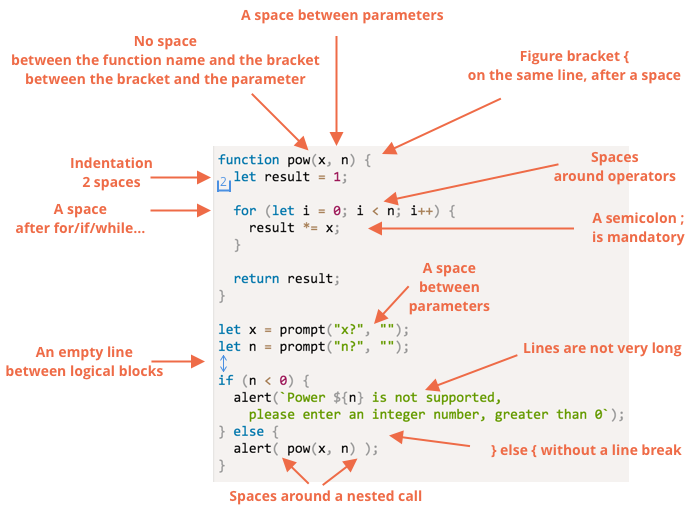
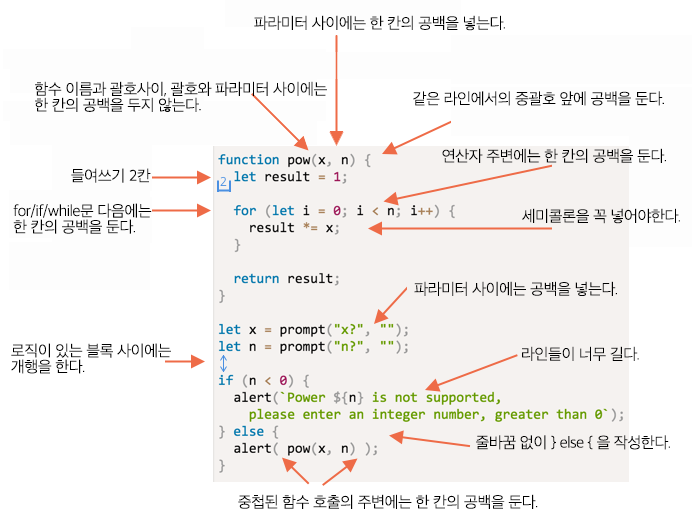
UPDATE 코드 스타일 번역

diff --git a/1-js/03-code-quality/02-coding-style/article.md b/1-js/03-code-quality/02-coding-style/article.md
@@ -1,12 +1,12 @@
-# Coding Style
+# 코딩 스타일
 
-Our code must be as clean and easy to read as possible.
+코드는 깨끗하고 읽기 쉽게 작성하는 것이 실질적으로 프로그래밍의 기술입니다.
 
-That is actually the art of programming -- to take a complex task and code it in a way that is both correct and human-readable.
+복잡한 작업을 수행하고 사람이 읽을 수 있는 방식으로 코드를 작성합니다.
 
-## Syntax
+## 문법
 
-Here is a cheatsheet with some suggested rules (see below for more details):
+다음은 몇 가지 규칙이 제안된 요약한 치트시트입니다. (아래에 자세한 내용 참조)
 
 ![](code-style.png)
 <!--
@@ -34,15 +34,17 @@ if (n < 0) {
 
 -->
 
-Now let's discuss the rules and reasons for them in detail.
+위의 치트 시트에 기재된 규칙과 세세한 내용을 설명하겠습니다.
 
 ```warn header="Irony Detected"
-Nothing is set in stone here. These are style preferences, not religious dogmas.
+꼭 해야만 하는 정해진 규칙이 아닙니다.
 ```
 
-### Curly Braces
+### 중괄호
 
-In most JavaScript projects curly braces are written in "Egyptian" style with the opening brace on the same line as the corresponding keyword -- not on a new line. There should also be a space before the opening bracket, like this:
+대부분의 자바스크립트 프로젝트에서 중괄호는 "Egyptian" 스타일입니다. "Egyptian" 스타일은 새로운 키워드가 아닌 해당 키워드와 같은 행에 여는 중괄호로 작성되는 것입니다. 아래의 예시 코드에서 처럼 여는 중괄호 앞에는 공백 한 칸이 있어야 합니다.
+
+예시 :
 
 ```js
 if (condition) {
@@ -52,10 +54,9 @@ if (condition) {
 }
 ```
 
-A single-line construct is an important edge case. Should we use brackets at all? If yes, then where?
+단일 행 구조는 에지 케이스에서 중요합니다. 그렇다면 대괄호를 사용해야할까요? 그렇다면 어디에 대괄호를 사용할까요?
 
-Here are the annotated variants so you can judge their readability for yourself:
-
+다음은 주석이 달린 코드 입니다. 코드를 보면 가독성을 판단할 수 있습니다.
 <!--
 ```js no-beautify
 if (n < 0) {alert(`Power ${n} is not supported`);}
@@ -72,31 +73,31 @@ if (n < 0) {
 -->
 ![](figure-bracket-style.png)
 
-In summary:
-- For very short code, one line is acceptable. For example: `if (cond) return null`.
-- But a separate line for each statement in brackets is usually easier to read.
+요약 :
 
-### Line Length
+- 짧은 코드 작성을 위해서 한 행은 허용합니다. ex) `if (cond) return null`.
+- 그러나 작성한 구문을 중괄호를 사용하여 행을 구분한 코드는 읽기 쉽습니다.
 
-No one likes to read a long horizontal line of code. It's best practice to split them up and limit the length of your lines.
+### 행 길이
 
-The maximum line length should be agreed upon at the team-level. It's usually 80 or 120 characters.
+가로로 긴 행의 코드를 읽는 것은 힘듭니다. 행을 분리하고 행의 길이를 제한하는 것이 가장 좋습니다.
 
-### Indents
+최대 행의 길이는 팀 내에서 합의 해야 합니다. 일반적으로 80에서 120자입니다.
 
-There are two types of indents:
+### 들여쓰기
 
-- **Horizontal indents: 2 or 4 spaces.**
+2가지 타입의 들여쓰기가 있습니다.
 
-    A horizontal indentation is made using either 2 or 4 spaces or the "Tab" symbol. Which one to choose is an old holy war. Spaces are more common nowadays.
+- **가로 들여쓰기 : 2칸 또는 4칸의 공백**
+    가로 들여쓰기는 2칸 또는 4칸의 공백을 사용하거나 "Tab"으로 적용합니다. 2칸 또는 4칸의 공백을 사용할지 "Tab"을 적용할지에 대한 논쟁은 오랫동안 이뤄져 왔습니다. 요즘은 공백을 좀 더 많이 사용하고 있습니다.
 
-    One advantage of spaces over tabs is that spaces allow more flexible configurations of indents than the "Tab" symbol.
+    공백이 "Tab"보다 유연한 구성을 허용한다는 한 가지 장점이 있습니다.
 
-    For instance, we can align the arguments with the opening bracket, like this:
+    예를 들어, 중괄호를 열 때 아래의 예시 코드처럼 인자를 정렬할 수 있습니다.
 
     ```js no-beautify
     show(parameters,
-         aligned, // 5 spaces padding at the left  
+         aligned, // 왼쪽에서 5칸 공백
          one,
          after,
          another
@@ -105,9 +106,10 @@ There are two types of indents:
     }
     ```
 
-- **Vertical indents: empty lines for splitting code into logical blocks.**
+- **세로 들여쓰기 : 로직이 있는 블록 사이를 나눌 때 빈 행**
 
-    Even a single function can often be divided into logical blocks. In the example below, the initialization of variables, the main loop and returning the result are split vertically:
+    단일 함수에서 자주 로직 블록으로 나눌 수 있습니다.
+    아래의 예시 코드에서 변수의 초기화, 메인 반복문 그리고 결과를 반환하는 부분에서 세로로 구분할 수 있습니다.
 
     ```js
     function pow(x, n) {
@@ -120,24 +122,23 @@ There are two types of indents:
       return result;
     }
     ```
+    새로운 행을 추가하면 읽기 쉬운 코드를 작성할 수 있습니다. 세로로 들여쓰기가 없는 코드는 9줄을 초과해서는 안됩니다.
 
-    Insert an extra newline where it helps to make the code more readable. There should not be more than nine lines of code without a vertical indentation.
+### 세미콜론
 
-### Semicolons
+세미콜론은 구문을 건너띌 수 있는 경우에도 각각 구문 다음에 있어야 합니다.
 
-A semicolon should be present after each statement, even if it could possibly be skipped.
+세미콜론이 실제로 선택사항이고, 거의 사용하지 않는 언어도 있습니다. 자바스크립트에서는 줄 바꿈이 세미콜론으로 해석되지 않아 오류에 취약한 경우가 있습니다.
 
-There are languages where a semicolon is truly optional and it is rarely used. In JavaScript, though, there are cases where a line break is not interpreted as a semicolon, leaving the code vulnerable to errors.
+프로그래머로서 더욱 성장하게 되면 [StandardJS](https://standardjs.com/)처럼 세미콜론을 작성하지 않는 스타일을 선택할 수 있습니다. 그렇게 될 때까지 함정에 빠지지 않기 위해서 세미콜론을 사용하는 것이 좋습니다.
 
-As you become more mature as a programmer, you may choose a no-semicolon style like [StandardJS](https://standardjs.com/). Until then, it's best to use semicolons to avoid possible pitfalls.
+### 중첩 레벨
 
-### Nesting Levels
+깊이 있는 코드들을 너무 많은 중첩하여 작성하지 마세요.
 
-Try to avoid nesting code too many levels deep.
+반복문에서 추가적인 중첩을 피해기 위해 ["continue"](info:while-for#continue)지시자를 사용하는 것이 좋습니다.
 
-Sometimes it's a good idea to use the ["continue"](info:while-for#continue) directive in a loop to avoid extra nesting.
-
-For example, instead of adding a nested `if` conditional like this:
+예를 들면 아래의 코드처럼 중첩된  `if` 조건문을 사용하는 것 대신
 
 ```js
 for (let i = 0; i < 10; i++) {
@@ -146,8 +147,7 @@ for (let i = 0; i < 10; i++) {
   }
 }
 ```
-
-We can write:
+아래의 코드를 사용할 수 있습니다.
 
 ```js
 for (let i = 0; i < 10; i++) {
@@ -155,12 +155,11 @@ for (let i = 0; i < 10; i++) {
   ...  // <- no extra nesting level
 }
 ```
+이와 마찬가지로 `if/else`와 `return`을 사용하여 중첩을 피할 수 있습니다.
 
-A similar thing can be done with `if/else` and `return`.
+예를 들어, 아래의 2가지 구조는 동일합니다.
 
-For example, two constructs below are identical.
-
-Option 1:
+선택사항 1:
 
 ```js
 function pow(x, n) {
@@ -178,7 +177,7 @@ function pow(x, n) {
 }
 ```
 
-Option 2:
+선택사항 2:
 
 ```js
 function pow(x, n) {
@@ -197,13 +196,13 @@ function pow(x, n) {
 }
 ```
 
-The second one is more readable because the "edge case" of `n < 0` is handled early on. Once the check is done we can move on to the "main" code flow without the need for additional nesting.
+선택사항 2가 더 읽기 쉽습니다. 왜냐하면 에지 케이스에서 `n < 0`이 초기에 처리되기 때문입니다. 검사가 끝나면 추가 중첩을 하지 않고도 "main" 코드로 이동할 수 있습니다.
 
-## Function Placement
+## 함수 배치
 
-If you are writing several "helper" functions and the code that uses them, there are three ways to organize the functions.
+만약 "헬퍼" 함수와 이를 사용하는 코드를 작성한다면, 3가지 방법으로 함수를 구성할 수 있습니다.
 
-1. Functions declared above the code that uses them:
+1. 아래의 코드 처럼 함수를 사용하는 코드 위에 선언합니다.
 
     ```js
     // *!*function declarations*/!*
@@ -224,7 +223,8 @@ If you are writing several "helper" functions and the code that uses them, there
     setHandler(elem);
     walkAround();
     ```
-2. Code first, then functions
+
+2. 사용하는 코드가 먼저, 그다음 함수를 선언합니다.
 
     ```js
     // *!*the code which uses the functions*/!*
@@ -245,54 +245,55 @@ If you are writing several "helper" functions and the code that uses them, there
       ...
     }
     ```
-3. Mixed: a function is declared where it's first used.
 
-Most of time, the second variant is preferred.
+3. 1,2 둘 다 섞습니다. 함수는 처음 사용된 곳에 선언됩니다.
 
-That's because when reading code, we first want to know *what it does*. If the code goes first, then it provides that information. Then, maybe we won't need to read the functions at all, especially if their names are descriptive of what they actually do.
+대부분의 경우 두번째 방법을 많이 선호합니다.
 
-## Style Guides
+왜냐하면 코드를 읽을 때, 먼저 코드가 무엇인지 알고 싶어하기 때문입니다. 만약 코드가 먼저 선언이 된다면, 해당 정보가 제공됩니다. 그러고 나면 함수를 읽을 필요는 없습니다. 그래서 함수 이름이 무엇을 하는지 알 수 있어야 합니다.
 
-A style guide contains general rules about "how to write" code, e.g. which quotes to use, how many spaces to indent, where to put line breaks, etc. A lot of minor things.
+## 스타일 가이드
 
-When all members of a team use the same style guide, the code looks uniform, regardless of which team member wrote it.
+스타일 가이드는 "작성하는 방법"에 대해 '사용할 따옴표', '들여쓰기의 공백', '줄바꿈을 넣을 위치'와 같은 일반적인 규칙을 포함하고 있어야 합니다. 사소하게 포함해야할 규칙들이 많습니다.
 
-Of course, a team can always write their own style guide. Most of the time though, there's no need to. There are many existing tried and true options to choose from, so adopting one of these is usually your best bet.
+팀의 모든 구성원이 동일한 스타일 가이드를 사용하면 팀원이 개별적으로 작성한 코드와 관계없이 코드가 동일하게 보입니다.
 
-Some popular choices:
+물론 팀은 항상 자신의 스타일 가이드를 작성할 수 있습니다. 대부분의 경우, 필요가 없습니다. 왜냐하면 잘 만들어 놓아진 스타일 가이드들이 존재하여 선택해서 사용할 수 있는 스타일 가이드들이 많습니다. 가장 잘된 것들을 하나 채택하여 사용하면 됩니다.
+
+유명한 스타일들 :
 
 - [Google JavaScript Style Guide](https://google.github.io/styleguide/javascriptguide.xml)
 - [Airbnb JavaScript Style Guide](https://github.com/airbnb/javascript)
 - [Idiomatic.JS](https://github.com/rwaldron/idiomatic.js)
 - [StandardJS](https://standardjs.com/)
-- (plus many more)
+- 등등
 
-If you're a novice developer, start with the cheatsheet at the beginning of this chapter. Once you've mastered that you can browse other style guides to pick up common principles and decide which one you like best.
+초보자인 경우 이 장의 첫 번째에 있는 치트시트부터 시작하세요. 일단 마스터하면 다른 스타일 가이드들을 찾아서 일반적인 원칙들을 선택하고, 어떤 스타일이 좋은지 결정할 수 있습니다.
 
-## Automated Linters
+## 자동화된 린트
 
-Linters are tools that can automatically check the style of your code and make suggestions for refactoring.
+린트는 코드의 스타일을 자동으로 체크하고, 정의한 코드 스타일대로 리팩토링해줍니다.
 
-The great thing about them is that style-checking can also find some bugs, like typos in variable or function names. Because of this feature, installing a linter is recommended even if you don't want to stick to one particular "code style".
+린트의 가장 우수한 부분은 변수 또는 함수의 이름의 오류와 버그를 찾아내는 것입니다. 왜냐하면 이 기능으로 인해 특정 "코드 스타일"을 고집하지 않으려해도 린트 설치가 권장됩니다.
 
-Here are the most well-known linting tools:
+가장 잘 알려진 린트 툴들:
 
-- [JSLint](http://www.jslint.com/) -- one of the first linters.
-- [JSHint](http://www.jshint.com/) -- more settings than JSLint.
-- [ESLint](http://eslint.org/) -- probably the newest one.
+- [JSLint](http://www.jslint.com/) -- 린트들 중 가장 많이 사용
+- [JSHint](http://www.jshint.com/) -- JSLint 보다 더 많은 환경 세팅 가능
+- [ESLint](http://eslint.org/) -- 아마 린트들 중 가장 최신
 
-All of them can do the job. The author uses [ESLint](http://eslint.org/).
+이 린트툴들은 린트를 수행합니다. 책 저자는 [ESLint](http://eslint.org/)을 사용합니다.
 
-Most linters are integrated with many popular editors: just enable the plugin in the editor and configure the style.
+대부분의 린트들은 많은 유명한 에디터와 함께 사용할 수 있습니다. 에디터에서 플러그인으로 사용할 수 있고 스타일을 환경 세팅할 수 있습니다.
 
-For instance, for ESLint you should do the following:
+예를 들어, ESLint의 경우 다음을 수행해야 합니다.
 
-1. Install [Node.JS](https://nodejs.org/).
-2. Install ESLint with the command `npm install -g eslint` (npm is a JavaScript package installer).
-3. Create a config file named `.eslintrc` in the root of your JavaScript project (in the folder that contains all your files).
-4. Install/enable the plugin for your editor that integrates with ESLint. The majority of editors have one.
+1. [Node.JS](https://nodejs.org/)를 설치합니다.
+2. 명령어로 `npm install -g eslint` (npm은 자바스크립트 패키지 설치 프로그램입니다.)을 ESLint를 설치합니다.
+3. 자바스크립트 프로젝트의 루트(프로젝트의 파일들이 모두 포함된 폴더)에 `.eslintrc` 파일 이름으로 환경 세팅 파일을 생성합니다.
+4. ESLint와 함께 사용할 에디터의 플러그인 설치하고 활성화하세요. 다수의 에디터는 설치, 활성화 되어 있습니다.
 
-Here's an example of an `.eslintrc` file:
+`.eslintrc` 파일 작성의 예:
 
 ```js
 {
@@ -308,17 +309,16 @@ Here's an example of an `.eslintrc` file:
   "indent": 2
 }
 ```
+`"extends"` 지시자는 설정이 "eslint : recommended"설정을 기반으로한다는 것을 나타냅니다. 그 후에는 직접 지정합니다. 
 
-Here the directive `"extends"` denotes that the configuration is based on the "eslint:recommended" set of settings. After that, we specify our own.
+웹에서 스타일 규칙 세트들을 다운로드하여 대신 사용할 수도 있습니다. 더 많은 자세한 사항과 설치는 'http://eslint.org/docs/user-guide/getting-started'에서 볼 수 있습니다.
 
-It is also possible to download style rule sets from the web and extend them instead. See <http://eslint.org/docs/user-guide/getting-started> for more details about installation.
+또한 IDE는 린트들이 내장되어 있어 편하지만 ESLint 변형을 할 수 없습니다.
 
-Also certain IDEs have built-in linting, which is convenient but not as customizable as ESLint.
+## 요약
 
-## Summary
+읽기 쉬운 코드를 작성하는 것을 목표로 모든 문법의 규칙 그리고 스타일 가이드의 참고 자료는 이 장에서 설명이 되어 있습니다. 그러나 모두 논쟁의 여지가 있습니다.
 
-All syntax rules described in this chapter (and in the style guides referenced) aim to increase the readability of your code, but all of them are debatable.
+훨씬 "더 나은" 코드를 작성하는 것에 대한 생각을 할 때, 우리가 묻는 질문은 "코드를 읽기 쉽고,보다   이해하기 쉬운 코드를 만드는 이유"와 "오류를 방지하는데 도움이 되는 것은 무엇입니까?" 입니다. 이러한 것들이 코드 스타일을 선택하고 토론할 때 염두에 두어야 할 주요 사항입니다. 
 
-When we think about writing "better" code, the questions we should ask are, "What makes the code more readable and easier to understand?" and "What can help us avoid errors?" These are the main things to keep in mind when choosing and debating code styles.
-
-Reading popular style guides will allow you to keep up to date with the latest ideas about code style trends and best practices.
+인기있는 스타일 가이드를 읽으면 코드 스타일 동향 및 모범 사례에 대한 최신 아이디어를 최신으로 유지할 수 있습니다.
